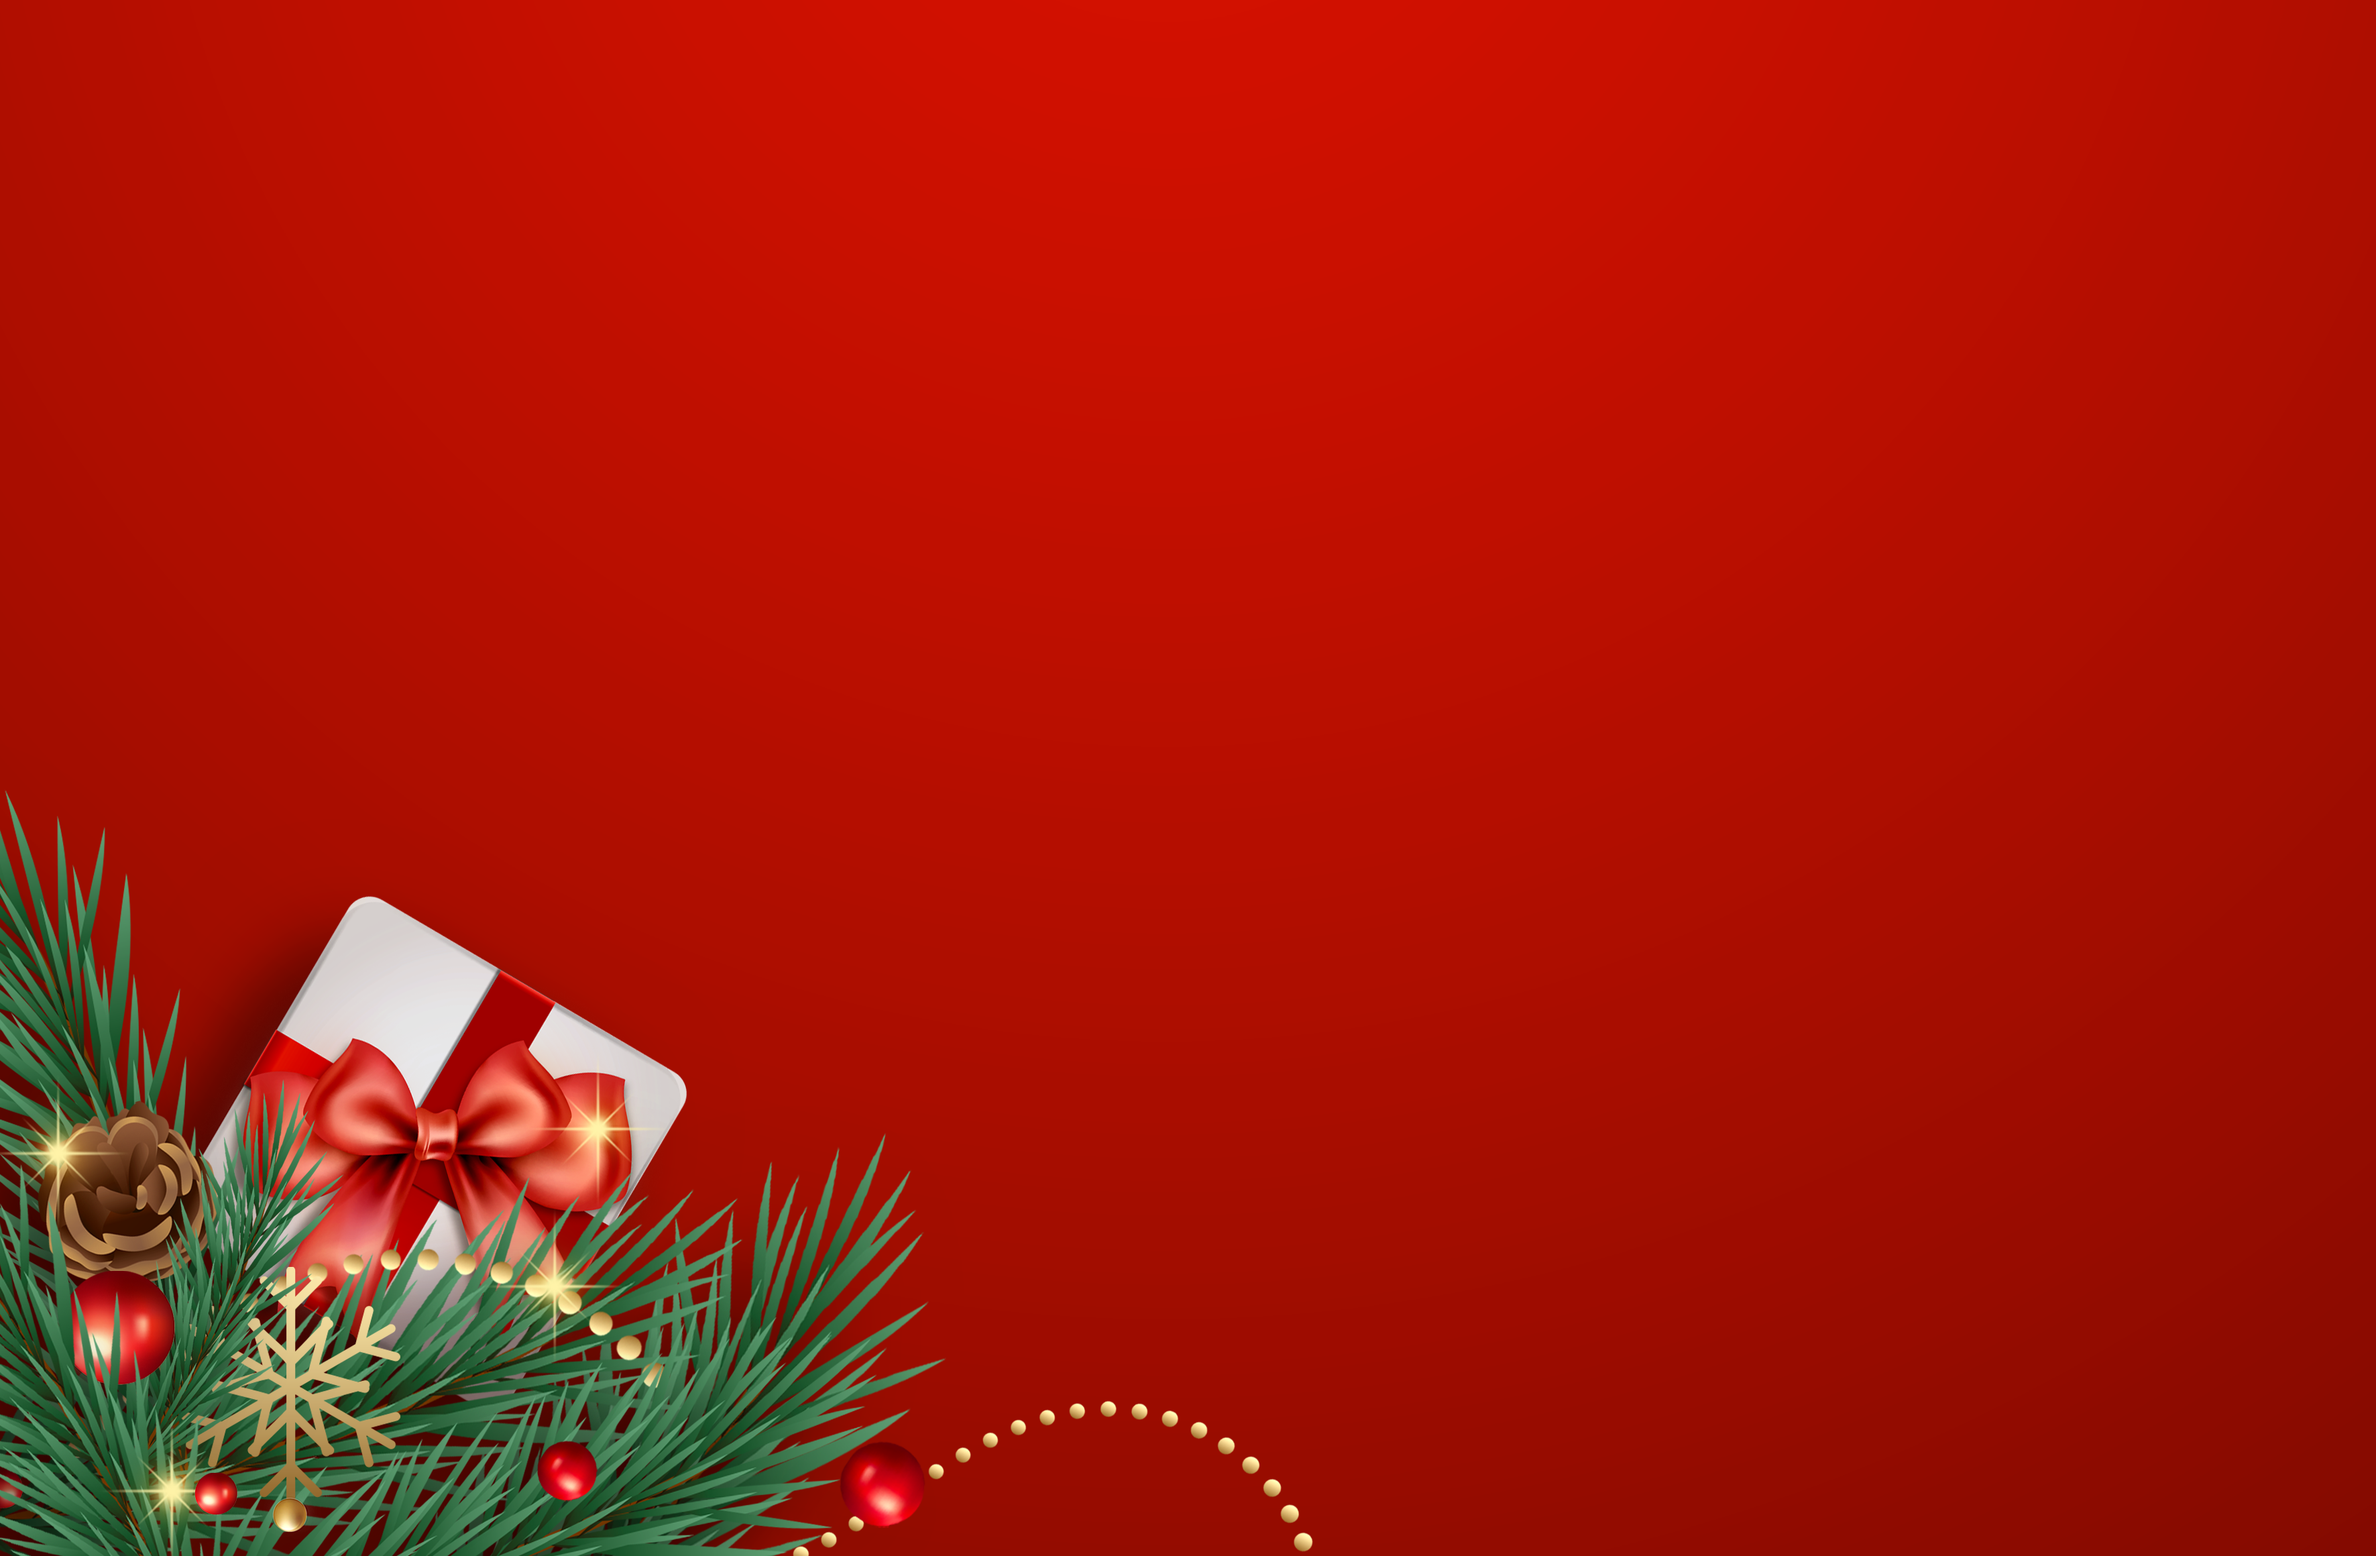
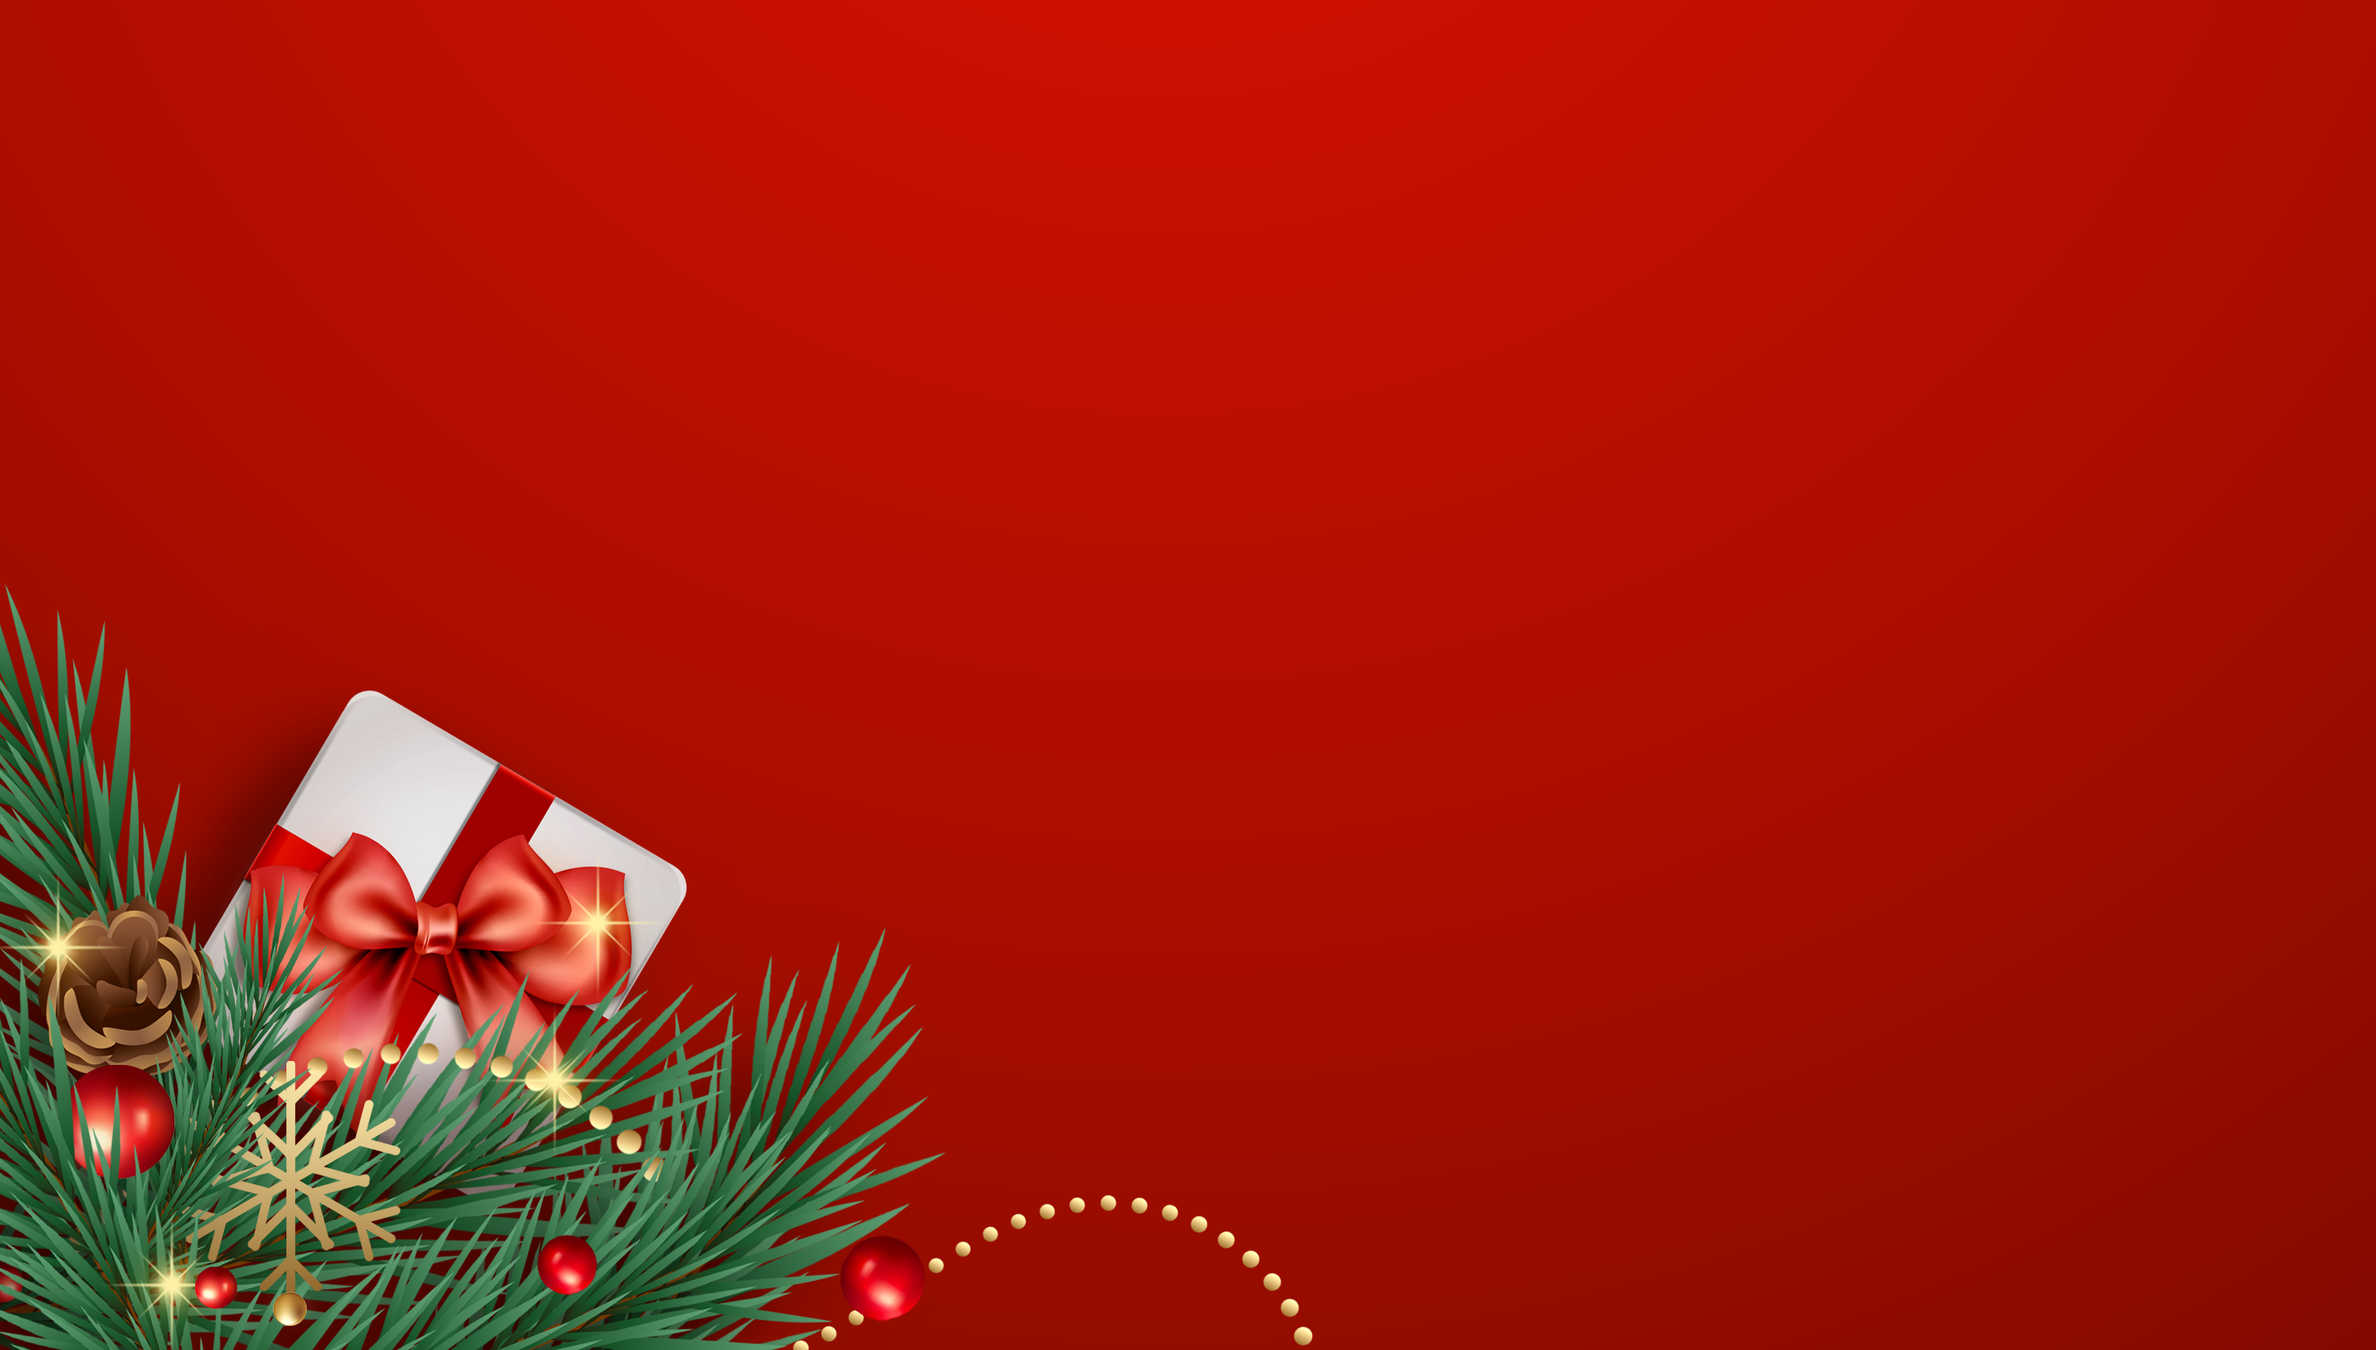
データ登録部分のデザインが完成しました。

Changed region(s): [[0.0, 0.462, 0.5588, 1.0]]

diff --git a/src/main/resources/templates/confirm.html b/src/main/resources/templates/confirm.html
@@ -3,22 +3,36 @@
 <head>
     <meta charset="UTF-8">
     <title>確認画面</title>
+    <link rel="stylesheet" th:href="@{/css/confirmLayout.css}">
 </head>
 <body>
-    <h1>入力内容確認</h1>
-    <h2>プレゼント番号</h2>
-    <h3 th:text="${presentForm.present}"></h3>
-    <h2>住所</h2>
-    <h3 th:text="${presentForm.address}"></h3>
-    
-    <!-- 戻るボタン -->
-    <a th:href="@{/input}">入力画面にもどる</a>
-    
-    <!-- OKボタン -->
-    <form th:action="@{/success}" method="post">
-		<input type="hidden" name="present" th:value="${presentForm.present}" />
-    	<input type="hidden" name="address" th:value="${presentForm.address}" />
-		<button type="submit">OK</button>
-    </form>
+	<!-- タイトル -->
+	<div class="title">
+		<h1>入力確認</h1>
+	</div>
+	
+    <div class="container">
+        <!-- プレゼント番号 -->
+        <h2>プレゼント番号</h2>
+        <h3 th:text="${presentForm.present}"></h3>
+        
+        <!-- 住所 -->
+        <h2>住所</h2>
+        <h3 th:text="${presentForm.address}"></h3>
+        
+        <!-- ボタン群 -->
+        <div class="button-group">
+            <!-- 戻るボタン -->
+            <form th:action="@{/input}" method="get">
+                <button type="submit" class="btn">入力画面にもどる</button>
+            </form>
+            <!-- OKボタン -->
+            <form th:action="@{/success}" method="post">
+                <input type="hidden" name="present" th:value="${presentForm.present}" />
+                <input type="hidden" name="address" th:value="${presentForm.address}" />
+                <button type="submit" class="btn">ＯＫ</button>
+            </form>
+        </div>
+    </div>
 </body>
 </html>

diff --git a/src/main/resources/static/css/successLayout.css b/src/main/resources/static/css/successLayout.css
@@ -1,1 +1,68 @@
 @charset "UTF-8";
+/* 背景画像の設定 */
+body {
+    background-image: url('/image/backConfirm.png');
+    background-size: cover;
+    background-repeat: no-repeat;
+    background-position: center;
+    font-family: 'Yu Gothic', sans-serif;
+    margin: 0;
+    padding: 0;
+    display: flex;
+    flex-direction: column; /* 縦方向に配置 */
+    justify-content: center;
+    align-items: center;
+    height: 100vh;
+}
+
+/* サンタさんの画像のスタイル */
+.santa-image {
+    text-align: center; /* 中央揃え */
+    margin: 20px 0; /* 上下の余白 */
+    margin-bottom: 30px;
+}
+
+.santa-image img {
+    max-width: 200px; /* 画像の最大幅 */
+    height: auto; /* アスペクト比を維持 */
+    border-radius: 10px; /* 角を丸くする */
+}
+
+/* テキスト類 */
+
+h1 {
+	text-align: center; /* 中央揃え */
+    font-size: 2em;
+    margin: 0;
+    line-height: 1.2;
+    color: white; /* 白色に設定 */
+    font-family: 'Hiragino Maru Gothic Pro', sans-serif;
+    margin-bottom: 5px;
+}
+h2 {
+	text-align: center; /* 中央揃え */
+    margin: 0;
+    line-height: 1.5;
+    color: white; /* 白色に設定 */
+    font-family: 'Hiragino Maru Gothic Pro', sans-serif;
+    margin-bottom: 20px;
+}
+
+
+/* ボタンのスタイル */
+.btn {
+    background-color: #007bff;
+    color: white;
+    padding: 10px 20px;
+    font-size: 1rem;
+    border: none;
+    border-radius: 5px;
+    cursor: pointer;
+    text-align: center;
+    transition: background-color 0.3s;
+    margin-top: 10px;
+}
+
+.btn:hover {
+    background-color: #0056b3;
+}

diff --git a/src/main/resources/templates/success.html b/src/main/resources/templates/success.html
@@ -3,40 +3,24 @@
 <head>
 	<meta charset="UTF-8">
 	<title>入力結果</title>
+	<link rel="stylesheet" th:href="@{/css/successLayout.css}">
 </head>
 <body>
-	<!--  -->
-	<h1 th:text="${message}">登録成功！リクエスト完了</h1>
+	<!-- サンタさんの画像 -->
+	<div class="santa-image">
+	    <img src="/image/santa2.png" alt="サンタさん2">
+	</div>
+	
+	<!-- タイトル -->
+	<div class="title">
+		<h1>リクエスト完了！</h1>
+		<h1>24日まで良い子で待っててね</h1>
+	</div>
 	
 	<!-- 戻るボタン -->
-	<a th:href="@{/input}">入力画面に戻る</a>
-
-	<!-- 表示確認用　本番時削除ここから 
-	<hr>
-	<h2>プレゼント番号</h2>
-	<h3>[[${presentForm.present}]]</h3>
-	<h2>住所</h2>
-	<h3>[[${presentForm.address}]]</h3>
-	
-	<h2>（デバック用表示）上記の入力内容が下記のリストに追加されているか確認してください</h2>
-	
-	<table th:if="${present_list}" border="1">
-		<thead>
-			<tr>
-				<th>ID</th>
-				<th>プレゼント番号</th>
-				<th>住所</th>
-			</tr>
-		</thead>
-		<tbody>
-			<tr th:each="presentList : ${present_list}">
-			<td th:text="${presentList.id}">ID</td>
-			<td th:text="${presentList.present}">プレゼント番号</td>
-			<td th:text="${presentList.address}">住所</td>
-			</tr>
-		</tbody>
-	</table>
-	 表示確認用　本番時削除ここまで -->
+    <form th:action="@{/input}" method="get">
+        <button type="submit" class="btn">入力画面にもどる</button>
+    </form>
 	
 </body>
 </html>

diff --git a/src/main/resources/static/css/confirmLayout.css b/src/main/resources/static/css/confirmLayout.css
@@ -1,1 +1,73 @@
 @charset "UTF-8";
+/* 背景画像の設定 */
+body {
+    background-image: url('/image/backConfirm.png');
+    background-size: cover;
+    background-repeat: no-repeat;
+    background-position: center;
+    font-family: 'Yu Gothic', sans-serif;
+    margin: 0;
+    padding: 0;
+    display: flex;
+    flex-direction: column; /* 縦方向に配置 */
+    justify-content: center;
+    align-items: center;
+    height: 100vh;
+}
+
+h1 {
+    font-size: 2.7em;
+    margin: 0;
+    line-height: 1.2;
+    color: white; /* 白色に設定 */
+    font-family: 'Hiragino Maru Gothic Pro', sans-serif;
+    margin-bottom: 20px;
+}
+
+/* 全体コンテナ */
+.container {
+    text-align: center;
+    background-color: rgba(255, 255, 255, 0.9); /* 背景を少し透明に */
+    padding: 20px;
+    border-radius: 10px;
+    box-shadow: 0 4px 6px rgba(0, 0, 0, 0.1);
+}
+
+/* 見出しのスタイル */
+
+h2 {
+    font-size: 1.5rem;
+    color: #444;
+    margin: 10px 0;
+}
+
+h3 {
+    font-size: 1.2rem;
+    color: #666;
+    margin: 5px 0;
+}
+
+/* ボタン群の配置 */
+.button-group {
+    display: flex;
+    justify-content: center;
+    gap: 20px;
+    margin-top: 20px;
+}
+
+/* ボタンのスタイル */
+.btn {
+    background-color: #007bff;
+    color: white;
+    padding: 10px 20px;
+    font-size: 1rem;
+    border: none;
+    border-radius: 5px;
+    cursor: pointer;
+    text-align: center;
+    transition: background-color 0.3s;
+}
+
+.btn:hover {
+    background-color: #0056b3;
+}

diff --git a/src/main/resources/static/css/inputLayout.css b/src/main/resources/static/css/inputLayout.css
@@ -16,6 +16,7 @@ body {
 form {
     display: inline-block;
     margin-top: 20px;
+    margin-bottom: 30px;
     background-color: rgba(255, 255, 255, 0.9);
     padding: 20px;
     border-radius: 10px;
@@ -66,6 +67,7 @@ h1,h2 {
     gap: 15px; /* 要素間の間隔 */
     justify-items: center; /* 中央揃え */
     margin: 20px 0;
+    margin-bottom: 40px;
 }
 
 .present-list div {
@@ -115,7 +117,7 @@ input[type="submit"]:hover {
 /* エラーメッセージを左揃えにする */
 .errorStr {
     text-align: left;
-    margin-left: 10px; /* 必要なら左余白を追加 */
+    margin-left: 10px; /* 左余白を追加 */
     color: red;
-    font-size: 0.9em; /* サイズ調整（任意） */
+    font-size: 0.9em; /* サイズ調整 */
 }
